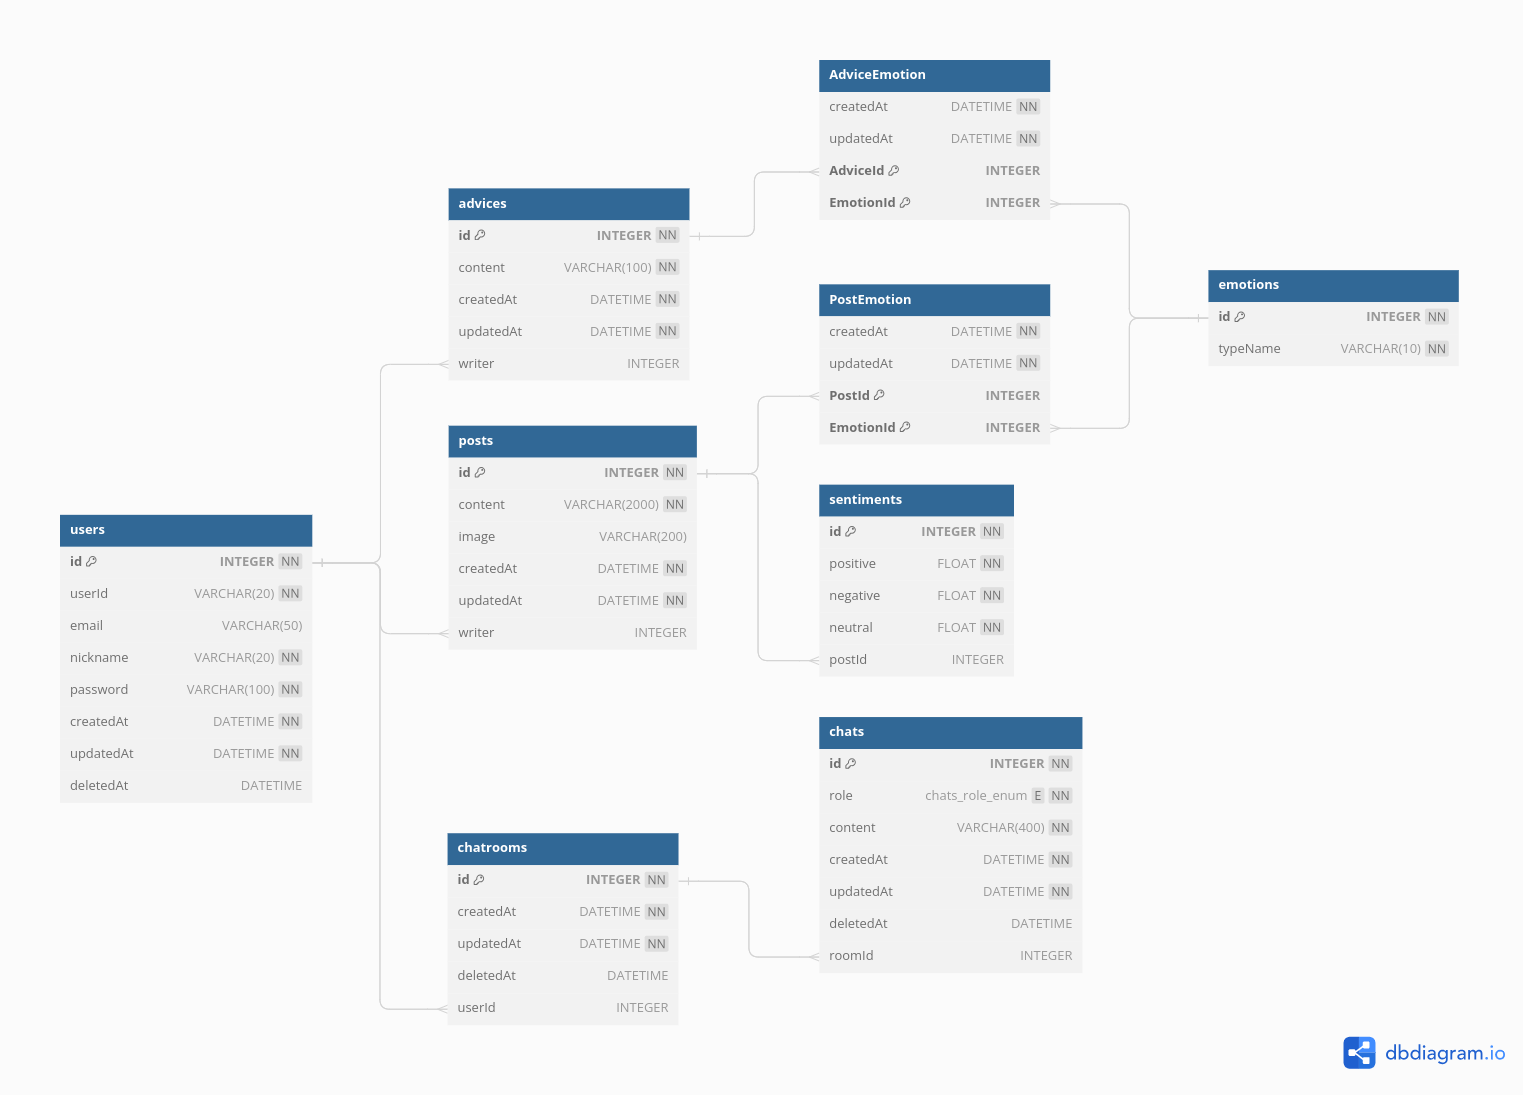
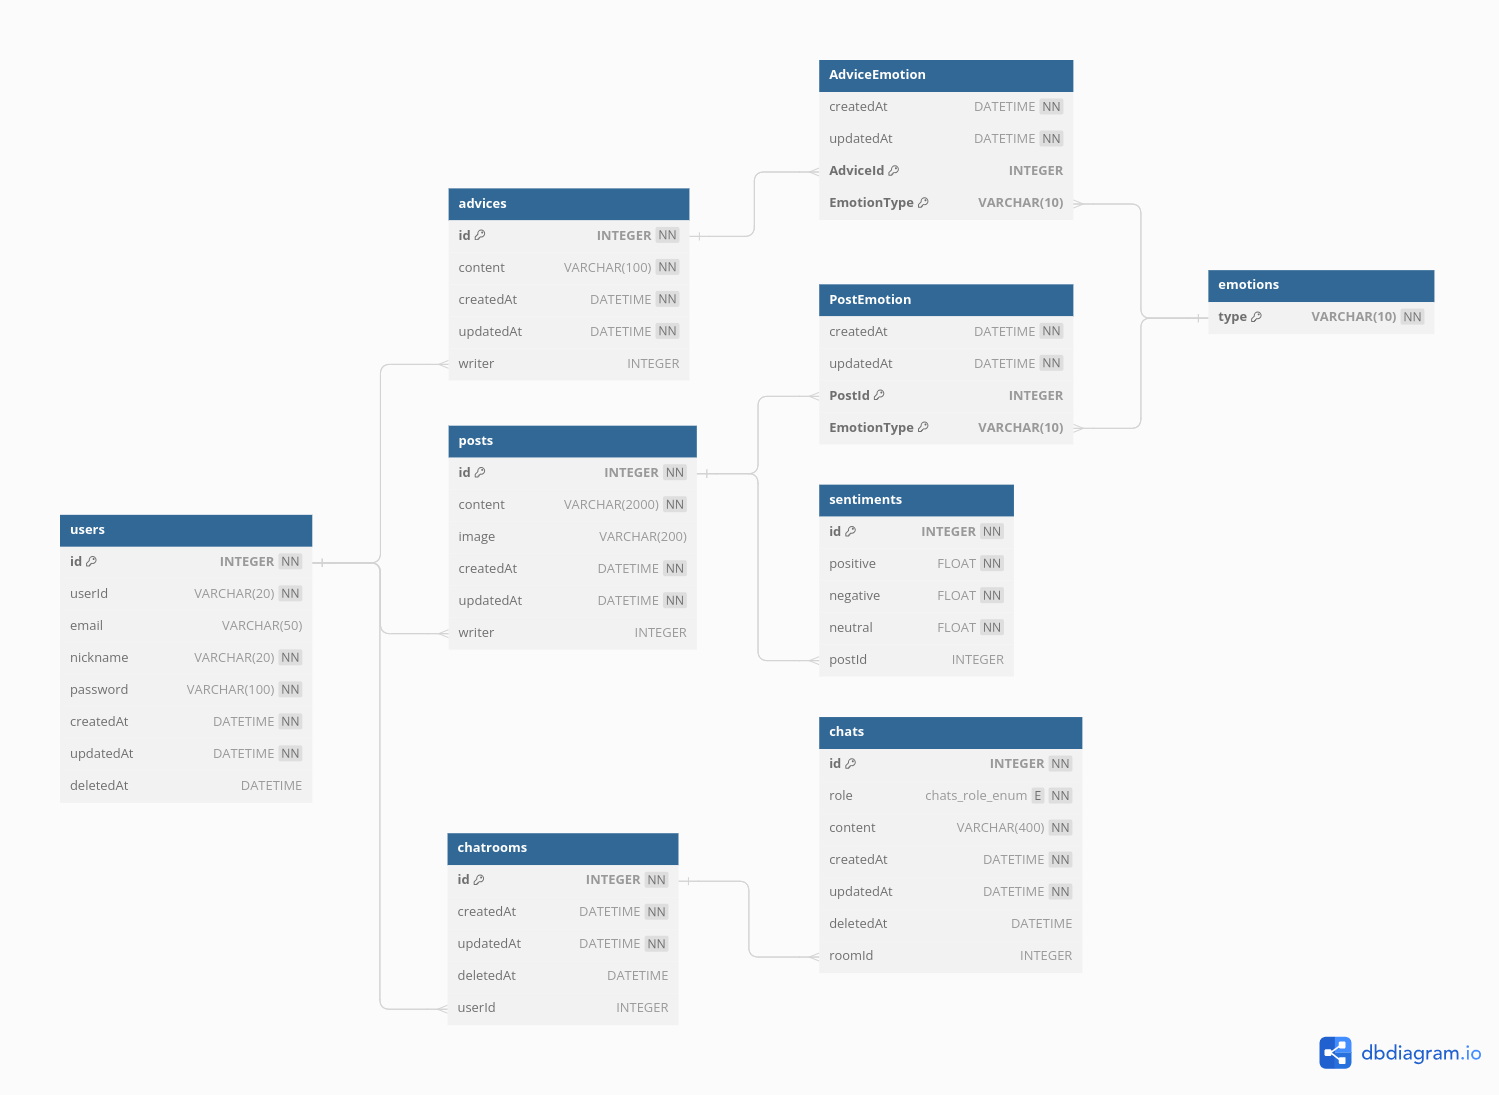
Refactor: 감정 테이블 속성 수정
- ID를 없애고 감정의 명칭을 Primary Key로 설정하였다.

diff --git a/backend/models/emotion.js b/backend/models/emotion.js
@@ -8,10 +8,11 @@ const Sequelize = require("sequelize");
 class Emotion extends Sequelize.Model {
     static initiate(sequelize) {
         Emotion.init({
-            typeName: {
+            type: {
                 type: Sequelize.STRING(10),     // 최대 길이 10
                 allowNull: false,               // 값은 null일 수 없다.
                 unique: true,                   // 값은 유일해야 한다.
+                primaryKey: true,               // 데이터베이스의 주 키로 설정한다.
             },
         }, {
             sequelize,

diff --git a/backend/app.js b/backend/app.js
@@ -25,6 +25,9 @@ sequelize.sync({ force: false })
     .then(() => {
         console.log("데이터베이스 연결 성공");
     })
+    .then(async () => {
+        await setEmotion();
+    })
     .catch((err) => {
         console.error(err);
     });
@@ -60,7 +63,6 @@ app.use((err, req, res, next) => {
     res.status(err.status || 500).send("서버 에러가 발생했습니다.");
 });
 
-app.listen(app.get("port"), async () => {
-    await setEmotion();
+app.listen(app.get("port"), () => {
     console.log(app.get("port"), "번 포트에서 대기 중");
 })

diff --git a/backend/repositories/index.js b/backend/repositories/index.js
@@ -5,8 +5,8 @@ exports.setEmotion = async () => {
 
     for (const emotion of emotions) {
         await Emotion.findOrCreate({
-            where: { typeName: emotion },
-            defaults: { typeName: emotion },
+            where: { type: emotion },
+            defaults: { type: emotion },
         });
         console.log(`[EMOTION: ${emotion}] FOUND OR CREATED.`);
     }

diff --git a/docs/Database.md b/docs/Database.md
@@ -40,8 +40,7 @@
 ### emotions: 감정 테이블
 | column | meaning |
 | :-- | :-- |
-| id | 로우 고유의 ID |
-| typeName | 감정 명칭 |
+| type | 감정 명칭 |
 
 일기에는 행복, 슬픔 등 여러 가지 감정이 매핑될 수 있다.
 
@@ -49,7 +48,7 @@
 | column | meaning |
 | :-- | :-- |
 | PostId | 일기의 고유한 ID |
-| EmotionId | 감정의 고유한 ID |
+| EmotionType | 감정 명칭 |
 | createdAt | 로우 생성 일시 |
 | updatedAt | 로우 업데이트 일시 |
 
@@ -59,7 +58,7 @@
 | column | meaning |
 | :-- | :-- |
 | AdviceId | 조언의 고유한 ID |
-| EmotionId | 감정의 고유한 ID |
+| EmotionType | 감정 명칭 |
 | createdAt | 로우 생성 일시 |
 | updatedAt | 로우 업데이트 일시 |
 
